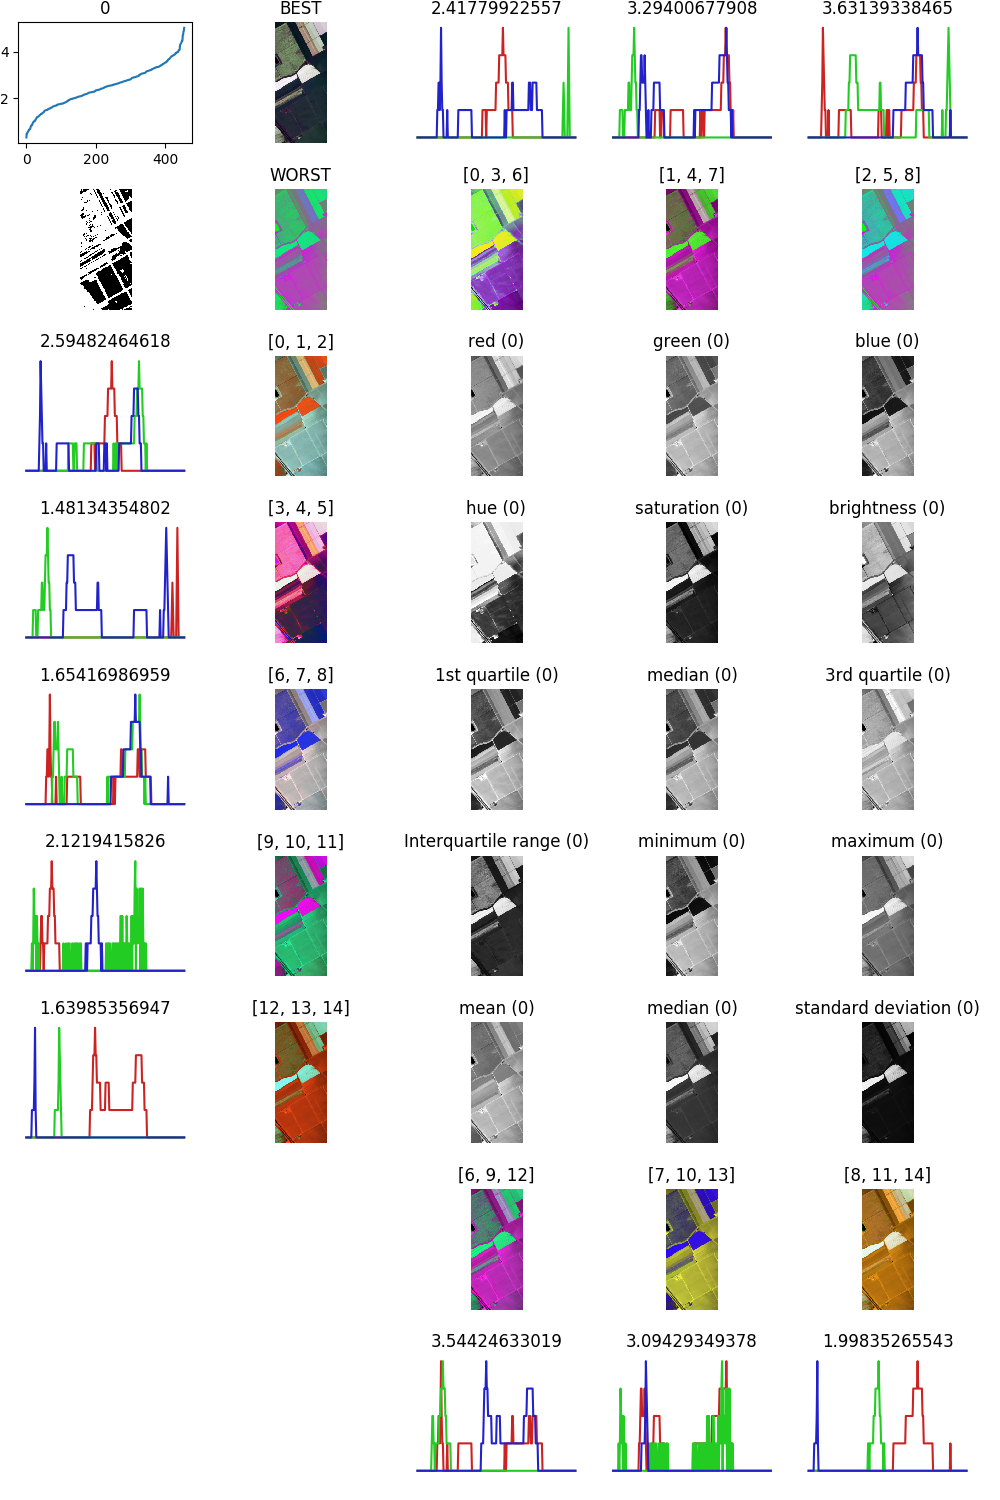
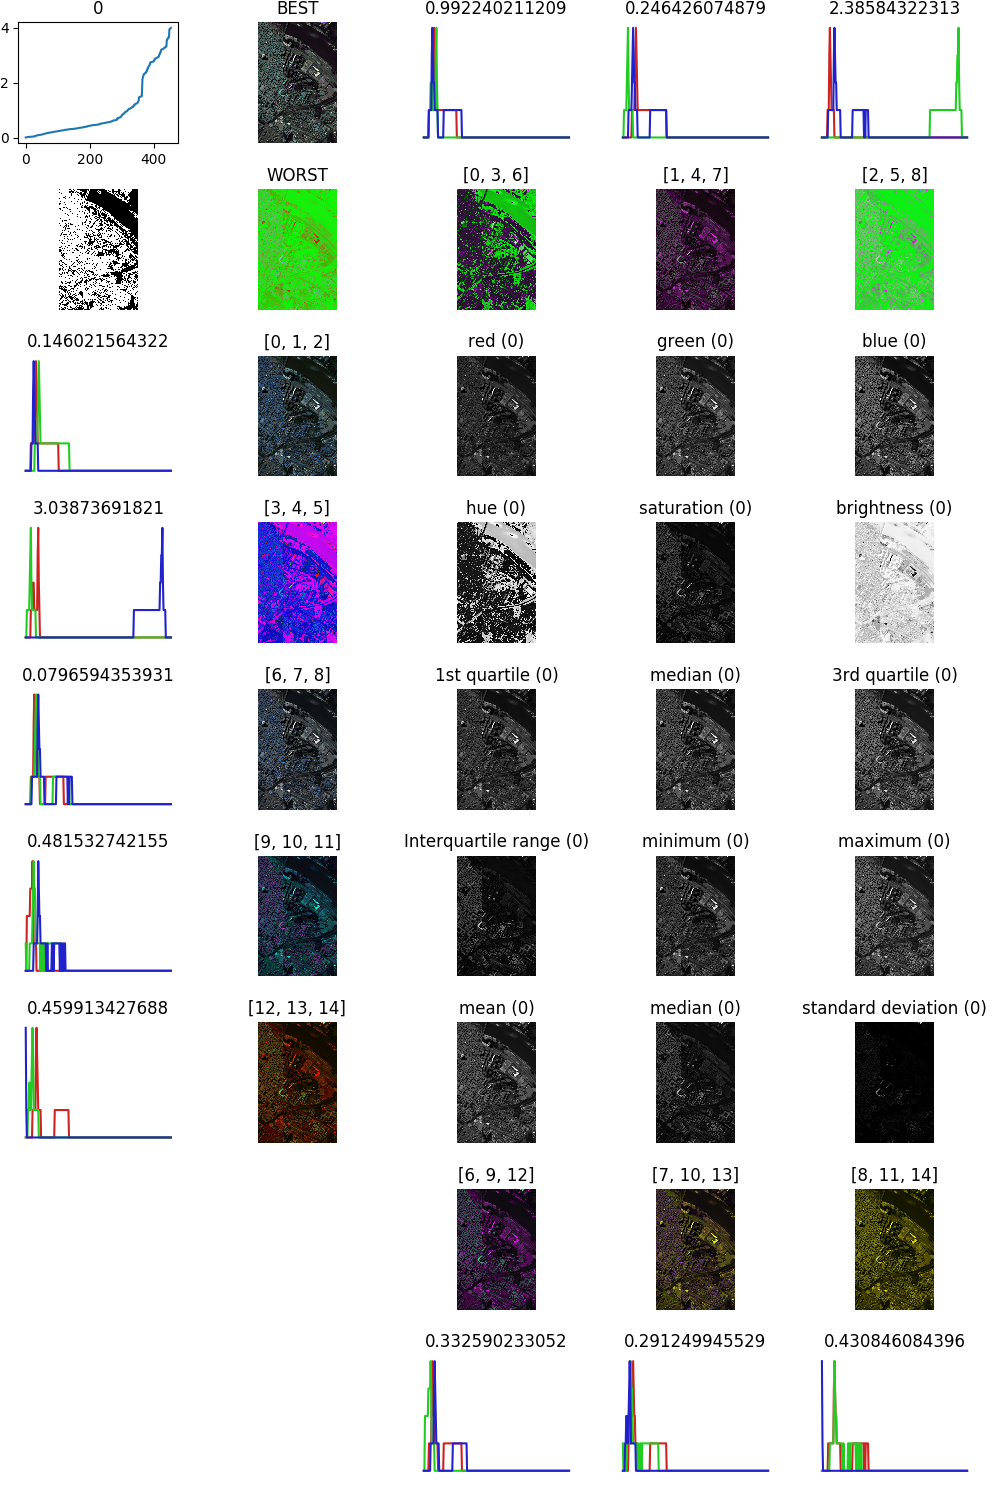
Seven is better than four, because three is a magic number.

diff --git a/hssa/HS.py b/hssa/HS.py
@@ -16,6 +16,7 @@ class HS:
     def __init__(self, dictionary):
         # Loading image, ground truth and establishing informations.
         self.image = self.loadMatFromTuple(dictionary['image'])
+        #print np.shape(self.image)
         self.gt = self.loadMatFromTuple(dictionary['gt'])
         self.name = dictionary['name']
         self.classes = dictionary['classes']
@@ -167,6 +168,7 @@ class HS:
     ## Loading from .mat file
     """
     def loadMatFromTuple(self, entry):
+        #print scipy.io.whosmat(entry[0])
         return scipy.io.loadmat(entry[0])[entry[1]]
 
     def prepareReverse(self):

diff --git a/foo.py b/foo.py
@@ -9,14 +9,13 @@ import matplotlib.patches as patches
 import matplotlib.gridspec as gridspec
 
 imagesDirectory = 'data/hsimages/'
-with open('%s%s' % (imagesDirectory, 'salinas.json')) as data_file:
+with open('%s%s' % (imagesDirectory, 'paviaC.json')) as data_file:
     dictionary = json.load(data_file)
 
 k = (3, 3)
 percentile = 50
 
 hs = hssa.HS(dictionary)
-#ap = hssa.AP(hs, k, percentile, 0, bins = 256, quantization = 4)
 ap = hssa.AP(hs, k, percentile, 0, bins = 256, quantization = 4)
 print ap.epf
 
